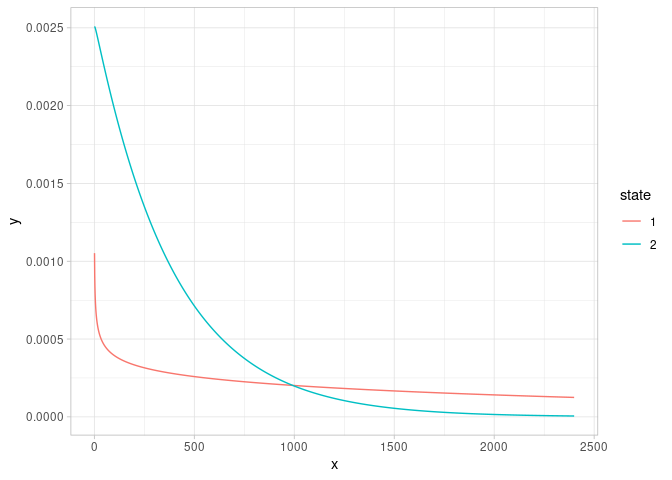
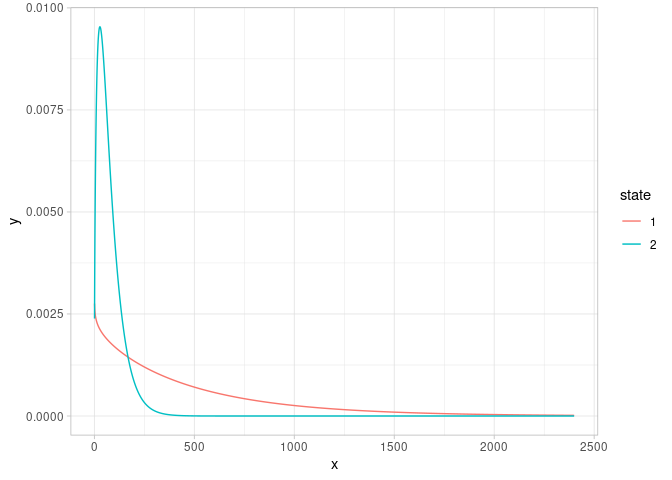
Removed check for complete cases.

diff --git a/README.md b/README.md
@@ -28,8 +28,8 @@ library(amt)
 #> The following object is masked from 'package:stats':
 #> 
 #>     filter
-library(msissf)
-set.seed(123)
+library(msissa)
+set.seed(12)
 
 # Load example data set
 data(deer) 
@@ -51,7 +51,7 @@ Specify the msiSSF:
 N <- 2
 f <- list(
   habitat.selection = case_ ~ forest + strata(step_id_),
-  step.length = ~ I(sl_ * -1) + log(sl_), 
+  step.length = ~ log(sl_) + I(sl_ * -1), 
   turn.angle = ~ cos(ta_)
 )
 res1 <- fit_msissf(
@@ -67,23 +67,23 @@ And inspect results
 
 ``` r
 res1$beta
-#> [1] 0.5520501 1.4571744
+#> [1]  0.7558604 -1.1124448
 res1$CI
 #> $CI_up
-#> [1] 2.143323 1.904994
+#> [1]  1.04050965 -0.02096608
 #> 
 #> $CI_low
-#> [1] -1.039223  1.009354
+#> [1]  0.4712112 -2.2039235
 #> 
 #> $p.value
-#> [1] 4.965313e-01 1.799034e-10
+#> [1] 1.945117e-07 4.575867e-02
 
 res1$shape
-#> [1] 0.791280 1.004012
+#> [1] 0.9373839 1.5848606
 res1$rate
-#> [1] 0.0002112867 0.0025676928
+#> [1] 0.001942317 0.020893428
 head(res1$decoded.states, 20)
-#>  [1] 1 1 1 1 1 1 1 1 1 1 1 1 1 1 1 1 1 1 1 1
+#>  [1] 2 2 1 1 1 1 1 1 1 1 2 1 1 2 2 2 2 2 2 2
 
 library(tidyverse)
 #> ── Attaching packages ─────────────────────────────────────── tidyverse 1.3.2 ──
